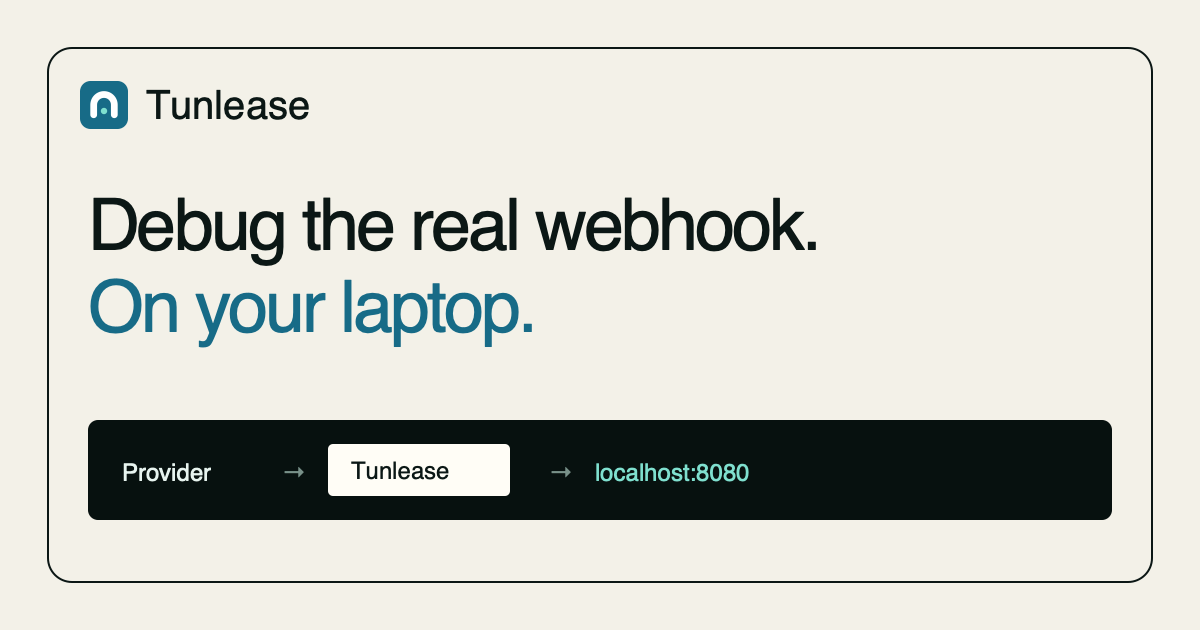
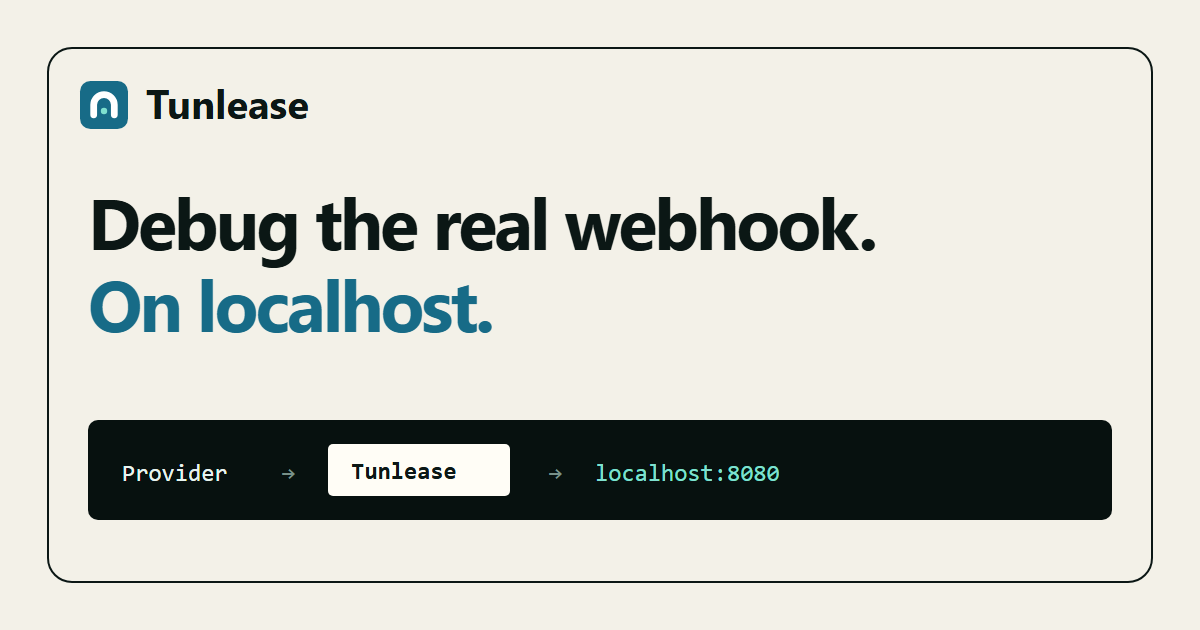
feat(site): show the demo GIF and retarget copy at localhost
Replace the hand-written fake terminal output on the landing page with the
real recording. The mock claimed "● Connected /demo/my-webhook/" while the
GIF shows "Connected until <time>: /demo/my-tunnel", so the two contradicted
each other; the recording is now the single source of truth for output.

Crop demo.gif from 1120x240 to its content box (767x146) — 35% of the width
and 56% of the height were empty padding, which made the terminal text render
far too small when scaled into the page.

Reword "on your laptop" to "on localhost" across the site, both READMEs and
the demo recording script: tul runs wherever the -p port lives, which is not
necessarily a laptop, and localhost matches the CLI's own output.

Widen the hero column (.92fr -> 1.06fr) and lower the h1 clamp so the
heading settles on two lines instead of breaking one word per line.

diff --git a/site/styles.css b/site/styles.css
@@ -33,9 +33,9 @@ nav a:hover { opacity: .55; }
 main {
   min-height: calc(100vh - 132px);
   display: grid;
-  grid-template-columns: .92fr 1.08fr;
+  grid-template-columns: 1.06fr .94fr;
   align-items: center;
-  gap: clamp(44px, 7vw, 104px);
+  gap: clamp(36px, 4vw, 64px);
   padding-block: 48px;
 }
 .eyebrow {
@@ -48,7 +48,7 @@ main {
   text-transform: uppercase;
 }
 .eyebrow i { width: 8px; height: 8px; background: var(--mint); border: 2px solid var(--ink); border-radius: 50%; box-shadow: 0 0 0 4px rgba(127, 224, 207, .3); }
-h1 { margin: 20px 0 22px; font-size: clamp(54px, 6.6vw, 94px); line-height: .92; letter-spacing: -.065em; }
+h1 { margin: 20px 0 22px; font-size: clamp(40px, 4.4vw, 66px); line-height: .96; letter-spacing: -.05em; text-wrap: balance; }
 h1 em { color: var(--blue); font-style: normal; }
 .intro > p { max-width: 570px; margin: 0; color: var(--soft); font-size: clamp(17px, 1.7vw, 20px); line-height: 1.55; }
 .links { display: flex; flex-wrap: wrap; gap: 10px; margin-top: 28px; }
@@ -85,11 +85,8 @@ h1 em { color: var(--blue); font-style: normal; }
 .command code { min-width: 0; overflow-x: auto; white-space: nowrap; font: 12px/1.65 ui-monospace, SFMono-Regular, Menlo, Consolas, monospace; }
 .copy { flex: none; cursor: pointer; padding: 4px 8px; color: #8fa9a2; background: transparent; border: 1px solid currentColor; border-radius: 3px; font-size: 10px; font-weight: 750; }
 .copy.copied { color: var(--mint); }
-pre { margin: 17px 0 0; font: 12px/1.7 ui-monospace, SFMono-Regular, Menlo, Consolas, monospace; white-space: pre-wrap; }
-.success { color: var(--mint); }
-.arrow, .muted { color: #789189; }
-.note { margin: 0; padding: 13px 26px; color: #789189; background: #091512; border-top: 1px solid #20322e; font-size: 12px; }
-.note span { color: #e7f4ef; font-weight: 700; }
+.demo { margin: 0; border-top: 1px solid #20322e; background: #1e1e2e; }
+.demo img { display: block; width: 100%; height: auto; }
 
 footer {
   height: 60px;
@@ -105,7 +102,7 @@ footer {
   .shell { width: min(100% - 28px, 1180px); }
   header { height: 64px; }
   main { min-height: auto; grid-template-columns: 1fr; gap: 42px; padding-block: 56px; }
-  h1 { font-size: clamp(52px, 15vw, 78px); }
+  h1 { font-size: clamp(44px, 8.6vw, 68px); }
   .intro > p { max-width: 620px; }
   .terminal { box-shadow: 8px 9px 0 rgba(23, 107, 135, .16); }
   footer { margin-top: 36px; }
@@ -113,13 +110,12 @@ footer {
 
 @media (max-width: 480px) {
   nav { gap: 16px; font-size: 12px; }
-  h1 { font-size: clamp(47px, 14.8vw, 66px); }
+  h1 { font-size: clamp(38px, 10.4vw, 48px); }
   .route { gap: 7px; font-size: 10px; }
   .route strong { padding: 6px 7px; }
   .block { padding: 21px 17px; }
   .tabs { overflow-x: auto; }
   .tabs button { white-space: nowrap; }
-  .note { padding-inline: 17px; }
 }
 
 @media (prefers-reduced-motion: reduce) {

diff --git a/site/index.html b/site/index.html
@@ -47,7 +47,7 @@
   <main class="shell">
     <section class="intro">
       <div class="eyebrow"><i></i> Open source · fixed callback URLs</div>
-      <h1>Debug the real webhook.<br><em>On your laptop.</em></h1>
+      <h1>Debug the real webhook.<br><em>On localhost.</em></h1>
       <p>Claim one path on an existing callback endpoint. Its traffic reaches localhost while every other path keeps serving the real app.</p>
       <div class="links">
         <a class="button primary" href="https://github.com/iml885203/tunlease">View on GitHub</a>
@@ -80,14 +80,15 @@
       <div class="block use">
         <div class="block-title"><span>2</span> Claim your path</div>
         <div class="command">
-          <code id="claim-command">tul claim '/demo/my-webhook/' -p 8080 -g tunlease-relay.dotw.me</code>
+          <code id="claim-command">tul claim '/demo/my-tunnel/' -p 8080 -g tunlease-relay.dotw.me</code>
           <button class="copy" type="button" data-copy-target="claim-command">Copy</button>
         </div>
-        <pre><span class="success">● Connected</span>  /demo/my-webhook/ <span class="arrow">→</span> localhost:8080
-<span class="muted">  Waiting for requests… (Ctrl+C to release)</span></pre>
       </div>
 
-      <p class="note"><span>That’s it.</span> Keep the command running while you debug.</p>
+      <figure class="demo">
+        <img src="demo.gif" width="767" height="146" decoding="async"
+             alt="Running tul claim on the public demo relay: the tunnel connects and an incoming GET request returns 200 from the local server.">
+      </figure>
     </section>
   </main>
 

diff --git a/README.md b/README.md
@@ -1,15 +1,15 @@
 # <img src="assets/icon.svg" width="32" height="32" alt=""> Tunlease
 
-**Debug a webhook on your laptop using its real, unchangeable callback URL — no redeploy, no new URL.**
+**Debug a webhook on localhost using its real, unchangeable callback URL — no redeploy, no new URL.**
 
-Claim one path on an existing fixed endpoint; its live traffic reaches your
-laptop while every other path keeps serving the real app. Ctrl+C to release.
+Claim one path on an existing fixed endpoint; its live traffic reaches
+localhost while every other path keeps serving the real app. Ctrl+C to release.
 
 ```bash
 tul claim '/demo/my-tunnel/' -p 8080 -g tunlease-relay.dotw.me
 ```
 
-![Claiming a path on the public Tunlease demo relay and forwarding it to a server on your laptop](assets/demo.gif)
+![Claiming a path on the public Tunlease demo relay and forwarding it to a server on localhost](assets/demo.gif)
 
 Similar in spirit to [ngrok](https://ngrok.com/),
 [localtunnel](https://github.com/localtunnel/localtunnel), and
@@ -44,7 +44,7 @@ flowchart LR
 ```
 
 The gateway receives the fixed host's traffic and forks by path: a **claimed**
-path with a connected tunnel reaches your laptop; every other path is proxied
+path with a connected tunnel reaches localhost; every other path is proxied
 to the configured original app. Blue nodes are Tunlease's; the rest already
 exist.
 

diff --git a/README.zh-TW.md b/README.zh-TW.md
@@ -9,7 +9,7 @@
 tul claim '/demo/my-tunnel/' -p 8080 -g tunlease-relay.dotw.me
 ```
 
-![在 Tunlease public demo relay claim path，並將流量轉送到 laptop 上的服務](assets/demo.gif)
+![在 Tunlease public demo relay claim path，並將流量轉送到 localhost 上的服務](assets/demo.gif)
 
 概念上類似 [ngrok](https://ngrok.com/)、
 [localtunnel](https://github.com/localtunnel/localtunnel) 與
